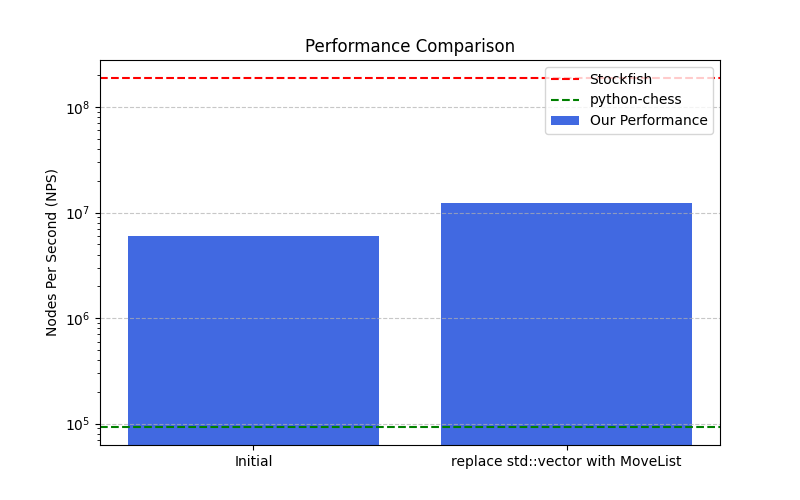
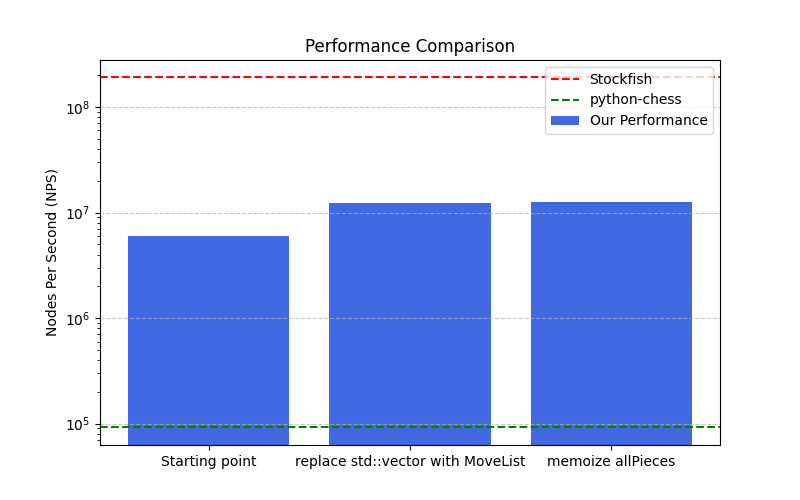
Document allPieces memoization performance improvement

diff --git a/docs/optimizationProgress.py b/docs/optimizationProgress.py
@@ -5,7 +5,8 @@ stockfishNPS = 190_717_779
 pythonChessNPS = 91_843
 ourPerformance = [
     ("Starting point", 5_980_028),
-    ("replace std::vector with MoveList", 12_245_777)
+    ("replace std::vector with MoveList", 12_245_777),
+    ("memoize allPieces", 12_618_242)
 ]
 labels, values = zip(*ourPerformance)
 

diff --git a/docs/Optimization.md b/docs/Optimization.md
@@ -39,3 +39,8 @@ The first version of the move generation achieves 5,980,028 nps (Nodes per Secon
 
 In the move generation the move structs were added to a vector that was returned. From the profiling we observed ~50% of the execution time was spend on the `emplace_back` calls to create the move structs on the heap in the vector.
 Using `reserve(30)` improved the performance significantly, but by completely replacing the vector with a MoveList which uses a preallocated array my code achieved an nps of 12,245,777.
+
+### Memoization of allPieces
+
+From the profiling we observed that or'ing together the pieces in the black and white piece sets took >10% of the execution time. Since the bitboards only update when a move is made we decided to memoize the bitboard of all white pieces and of all black pieces in the respective PieceSet instances and update them in when a move is made. 
+This increased performance to 12,618,242 nps. (In the profiling the allPieces now only uses ~6% of the execution time)
